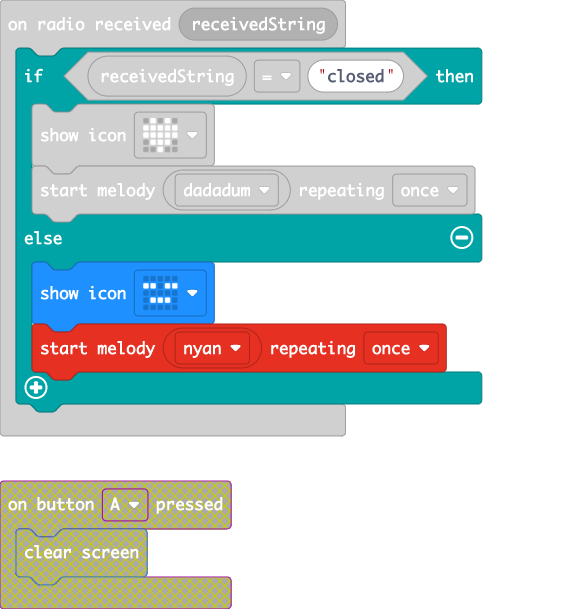
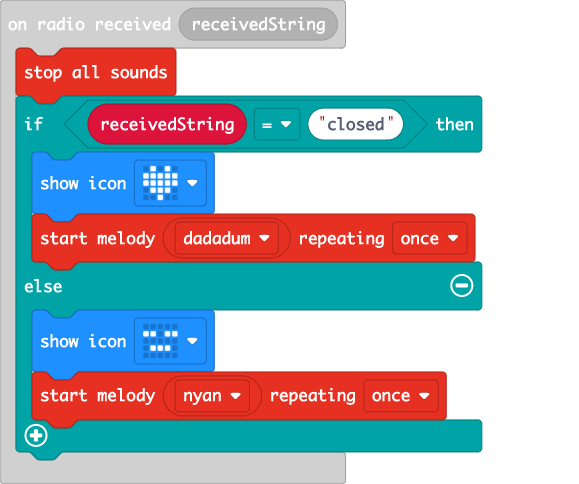
Update main.blocks, main.ts

diff --git a/main.ts b/main.ts
@@ -1,4 +1,5 @@
 radio.onReceivedString(function (receivedString) {
+    music.stopAllSounds()
     if (receivedString == "closed") {
         basic.showIcon(IconNames.Heart)
         music.startMelody(music.builtInMelody(Melodies.Dadadadum), MelodyOptions.Once)
